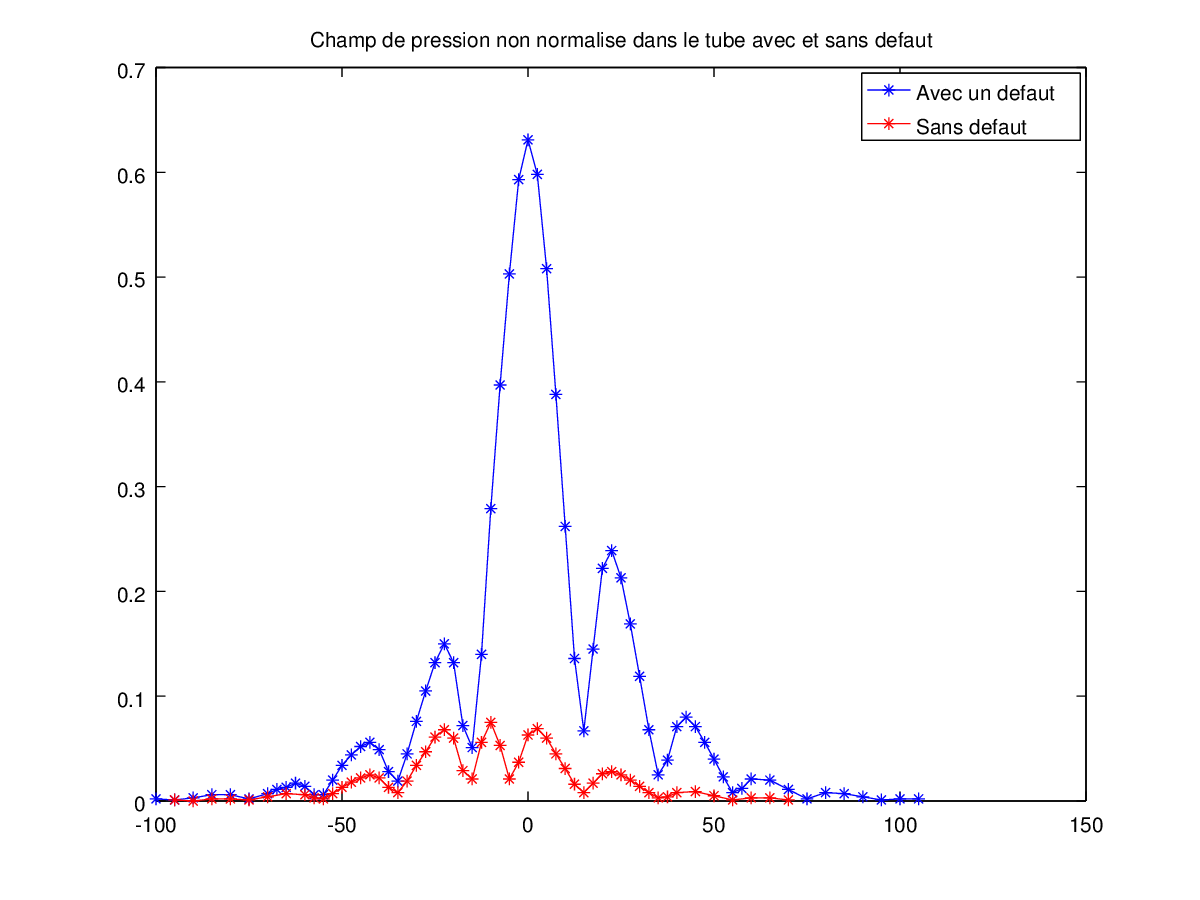
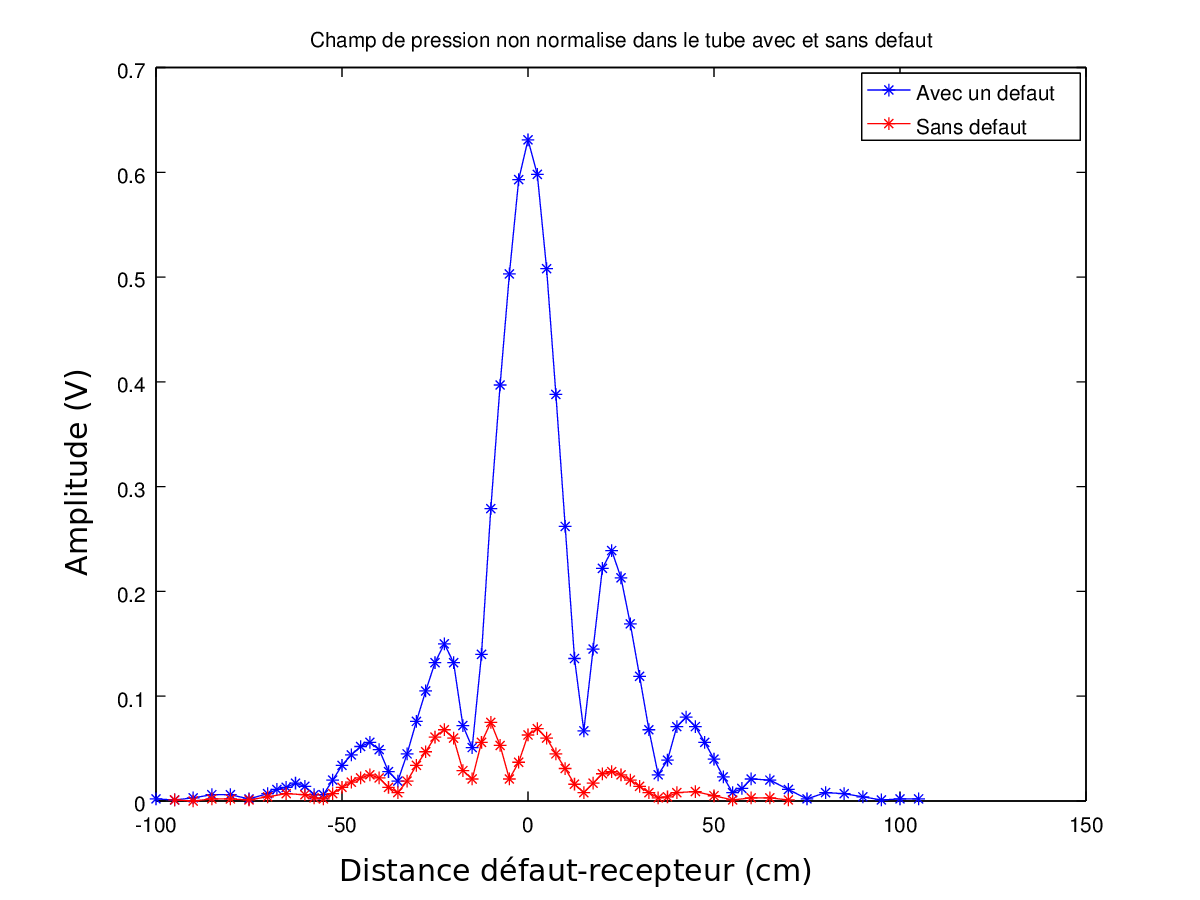
modif biblio + relecture chp3 + images chp 3

Changed region(s): [[0.2775, 0.9333, 0.6783, 0.9956], [0.0308, 0.4667, 0.0925, 0.6222], [0.0617, 0.4044, 0.0925, 0.4356]]

diff --git a/redaction/chapitre3.tex b/redaction/chapitre3.tex
@@ -11,7 +11,7 @@ Le banc de mesure utilisé est constitué d'un tuyau perforé de 60 trous sur le
 
 \begin{figure}[!h]
 	\centering
-	\includegraphics[scale=0.05]{images_chp3/DSCN0123.JPG}
+	\includegraphics[scale=0.03]{images_chp3/DSCN0123.JPG}
 	\caption{Photo du banc de mesure utilisé.\label{photo_manip}}
 \end{figure}
 
@@ -27,25 +27,29 @@ A l'autre extrémité du réseau se trouve une sortie anéchoïque préalablemen
 
 
 \section{Mesure du coefficient de réflexion et de transmission du réseau}
-On s'intéresse tout d'abord à la mesure du coefficient de réflexion et de transmission dans le réseau. Le but est de chercher la fréquence précise à laquelle le mode de défaut a lieu afin de pouvoir par la suite l'observer expérimentalement. Pour cela, on ne prend que 5 résonateurs (avec un défaut sur le troisième) afin que le mode localisé puisse s'étaler sur les bords du réseau et qu'il soit ainsi visible sur les coefficients de réflexion et de transmission. Les résonateurs ont une longueur de cavité de $16~cm$ et le défaut de $7.5~cm$. Les courbes figure ~\ref{ref_trans1} et ~\ref{ref_reflexion1} correspondent aux coefficients de réflexion et de transmission pour cette configuration, en comparaison avec le cas sans défaut.
+On s'intéresse tout d'abord à la mesure du coefficient de réflexion et de transmission dans le réseau. Le but est de chercher la fréquence précise à laquelle le mode de défaut a lieu afin de pouvoir par la suite l'observer expérimentalement. Pour cela, on ne prend que 5 résonateurs (avec un défaut sur le troisième) afin que le mode localisé puisse s'étaler sur les bords du réseau et qu'il soit ainsi visible sur les coefficients de réflexion et de transmission. Les résonateurs ont une longueur de cavité de $16~cm$ et le défaut de $7.5~cm$, et sont espacés de $10~cm$. Les courbes figure ~\ref{ref_trans1} et ~\ref{ref_reflexion1} correspondent aux coefficients de réflexion et de transmission pour cette configuration, en comparaison avec le cas sans défaut.
 
 \begin{figure}[!h]
-\centering
-\includegraphics[scale=0.3]{images_chp3/T_5HR165_nodefect.png}
-\includegraphics[scale=0.3]{images_chp3/T_5HR165_8cm_pos3.png}
-\caption{\label{ref_trans1} Coefficients de transmission du réseau dans un cas sans défaut et avec défaut. Les courbes de simulations et de l’expérience sont superposées.}
+	\centering
+	\subfigure[Sans défaut]{\includegraphics[scale=0.3]{images_chp3/T_5HR165_nodefect.png}}
+	\subfigure[Avec un défaut résonant à 485 Hz]{\includegraphics[scale=0.3]{images_chp3/T_5HR165_8cm_pos3.png}}
+	\caption{\label{ref_trans1} Coefficients de transmission du réseau dans un cas sans défaut et avec défaut. Les courbes de simulations (tiretée) et de l’expérience (continue) sont superposées.}
 \end{figure}
 
 \begin{figure}[!h]
-\centering
-\includegraphics[scale=0.3]{images_chp3/R_5HR165_nodefect.png}
-\includegraphics[scale=0.3]{images_chp3/R_5HR165_8cm_pos3.png}
-\caption{\label{ref_reflexion1} Coefficients de réflexion du réseau dans un cas sans défaut et avec défaut. Les courbes de simulations et de l’expérience sont superposées.}
+	\centering
+	\subfigure[Sans défaut]{\includegraphics[scale=0.3]{images_chp3/R_5HR165_nodefect.png}}
+	\subfigure[Avec un défaut résonant à 485 Hz]{\includegraphics[scale=0.3]{images_chp3/R_5HR165_8cm_pos3.png}}
+\caption{\label{ref_reflexion1} Coefficients de réflexion du réseau dans un cas sans défaut et avec défaut. Les courbes de simulations (tiretée) et de l’expérience (continue) sont superposées.}
 \end{figure}
 
-On constate qu'un pic de transmission est visible autour de 370 Hz, dans la bande interdite, tant théoriquement qu'expérimentalement : le défaut amplifie et permet à l'onde de traverser le réseau pour une fréquence donnée, alors que dans le cas sans défaut, aucune transmission n'est possible. Ce comportement laisse supposer qu'un mode localisé est présent au niveau du défaut : si on augmente le nombre de résonateur, l'atténuation est plus forte et le pic disparaît. Le mode est alors complètement localisé.
+Dans l'ensemble, simulations et mesures sont en accord. Certaines variations sont moins marquées sur les courbes expérimentales en raison des fuites aux jonctions du guide et des résonateurs non prises en comptes dans la simulation.\\
+Aux fréquences pour lesquelles la transmission est théoriquement proche de 1, il y a de fortes variations expérimentalement, dépassant 1. Cet écart entre théorie et expérience s'explique par la contribution des faibles réflexions provenant de la terminaison anéchoïque qui n'est pas parfaite.\\~\\
 
-Ces résultats se retrouvent de la même manière sur la réflexion.
+
+On constate qu'un pic de transmission est visible autour de 370 Hz, dans la bande interdite, tant théoriquement qu'expérimentalement : le défaut amplifie et permet à l'onde de traverser le réseau pour une fréquence donnée, alors que dans le cas sans défaut, aucune transmission n'est possible. Ce comportement laisse supposer qu'un mode localisé est présent au niveau du défaut : si on augmente le nombre de résonateur, l'atténuation est plus forte et le pic disparaît. Le mode est alors complètement localisé. 
+
+Selon la géométrie du réseau, la fréquence du mode de défaut peut apparaître plus clairement sur le coefficient de réflexion. Dans le cas présenté ici, le réseau est suffisamment court pour que l'effet du défaut soit aussi bine visible en transmission qu'en réflexion.
 
 
 
@@ -53,25 +57,42 @@ Ces résultats se retrouvent de la même manière sur la réflexion.
 
 
 
-Une fois la fréquence du mode de défaut relevée sur les coefficients de réflexions et transmissions on augmente le nombre de résonateurs de part et d'autre du défaut afin de créer un mode complètement localisé. Afin de pouvoir quand même exciter le mode localisé, une source est placé dans un des orifices au voisinage du défaut. Un microphone est inséré dans le réseau afin de mesure la pression en n'importe quel point. La pression RMS mesurée dans le tube est représenté figure ~\ref{p_tube} pour une configuration avec et sans défaut.
+Le nombre de résonateurs de part et d'autre du défaut est augmenté de manière à créer un mode complètement localisé. Afin de pouvoir quand même exciter le défaut à la fréquence du mode recherché malgré la longueur du réseau, une source est placée dans un des orifices au voisinage du défaut. Pour des raisons techniques, les résonateurs sont alors espacés de $20~cm$. De plus, pour éviter le bruit en basses fréquences dû à la réponse des transducteurs utilisés, la longueur de cavité des résonateurs est diminuée à $9.5~cm$, permettant ainsi de monter la première bande interdite en fréquence. Enfin, la cavité du défaut est fixée à $8~cm$. Dans ces conditions, les cellules étant plus grande, l'atténuation dans le guide est plus forte et la fréquence du mode de défaut est moins visible sur les coefficients de transmission et de réflexion. Cependant, avec l'aide d'une simulation, il possible de détecter sur la figure~\ref{ref_loc} une modification de la réflexion quand il y a un défaut. Un pic correspondant au mode de défaut apparaît à $370~Hz$.
+
+
+
+ Le signal d'excitation est donc un sinus à $370~Hz$ et un microphone est inséré dans le réseau afin de mesure la pression en n'importe quel point. Le microphone n'est pas intrusif car sa taille (quart de pouce) est petite devant celle de la longueur d'onde. L'amplitude de la pression mesurée dans le tube est représenté figure ~\ref{p_tube} pour une configuration avec et sans défaut. 
+
 
 \begin{figure}[!h]
-\centering
-\includegraphics[scale=0.5]{./images_chp3/non_norm_lin.png}
-\caption{\label{_tube} Pression RMS mesurée dans le réseau afin de mettre en évidence un mode localisé.}
+	\begin{minipage}[l]{0.45 \textwidth}
+		\subfigure[Avec défaut est en 3\textsuperscript{ème} position]{\includegraphics[scale=0.25]{./images_chp3/R_5HR10cm_Lcell20_85mm_pos3.png}}
+		\centering
+		\subfigure[Sans défaut]{\includegraphics[scale=0.25]{./images_chp3/R_5HR10cm_Lcell20_nodefect.png}}
+		\caption{Coefficient de réflexion à l'entrée d'un réseau de 5 cellules.\label{ref_loc}}
+	\end{minipage}
+	\hspace{0.5cm}
+	\begin{minipage}[r]{0.5 \textwidth}
+		\centering
+		\subfigure[]{\includegraphics[scale=0.2]{./images_chp3/non_norm_lin.png}}
+		\caption{Amplitude de la pression dans le guide avec et sans défaut.\label{p_tube}}
+	\end{minipage}
 \end{figure}
 
-On constate que les niveaux de pression mesurés sont près de 10 fois plus élevé dans le cas ou un défaut est présent. De plus, la décroissance à mesure qu'on s'éloigne du défaut est très importante: on est donc bien en présence d'un mode localisé. Il est a noté que dans cette configuration le niveau maximum dans le réseau ne ce situe pas au niveau de la source mais du défaut (ce qui n'est pas le cas quand il n'y a pas de défaut).
+Les niveaux de pression mesurés sont près de 10 fois plus élevés dans le cas où un défaut est présent. De plus, la décroissance à mesure qu'on s'éloigne du défaut est très importante : on est donc bien en présence d'un mode localisé. Il est a noter que dans cette configuration, le niveau maximum dans le réseau ne se situe pas au niveau de la source mais au niveau du défaut (ce qui n'est pas le cas quand il n'y a pas de défaut).
 \bigskip
-Pour des questions matériels il n'a pas été possible de placer la source au même endroit que le défaut dans le réseau, la symétrie du système n'est donc pas conservée. C'est pourquoi les 2 courbes figurent \ref{p_tube} ne sont pas centré sur le même point. La courbe sans défaut est centrée sur la source et la courbe avec défaut est centré sur le défaut. 
+Pour des questions matériels il n'a pas été possible de placer la source au même endroit que le défaut dans le réseau. La symétrie du système n'est donc pas conservée. C'est pourquoi les 2 courbes de la figure \ref{p_tube} ne sont pas centrées sur le même point.
 
 \subsection{Changement de géométrie du défaut}
-Afin de pouvoir étudier la différence de décroissance entre les 2 courbes, on change la géométrie du défaut: celui-ci est maintenant constitué de 2 résonateurs afin de pouvoir placer la source au centre. On à alors des cellule constitués de 2 résonateurs (voir schéma figure \ref{fig_exp}. La source se trouve en $x=0$, les résonateurs ont une longueur de cavité de $16~cm$ et ceux du défaut une longueur de $8~cm$. Ces longueurs sont modifiés par rapport au cas précédent car le mode localisé à lieu a une fréquence différente que dans le cas d'un défaut d'un seul résonateur: le couplage de 2 résonateur abaisse la fréquence du mode localisé (dans les fait 2 modes localisés sont créé, un plus basse fréquence et un plus haute, on choisi celui basse fréquence car il est mieux placé). On prend donc des cavités plus faible pour partir d'une plus haute fréquence.
+Afin de pouvoir étudier la différence de décroissance entre les 2 courbes, on change la géométrie de la cellule singulière : celle-ci est maintenant constituée de 2 résonateurs afin de pouvoir placer la source au centre. Les cellules sont alors constitués de 2 résonateurs (voir schéma figure \ref{fig_exp}). La source se trouve au point $x=0$, les résonateurs ont une longueur de cavité de $16~cm$ et ceux du défaut une longueur de $8~cm$.
+
+
+Le couplage des deux défauts engendre en réalité deux fréquences de résonance. En prenant des longueur de cavité plus grande, l'une d'elle tombe dans une bande interdite, générant ainsi un mode localisé.
 
 \begin{figure}[!h]
 \centering
 \includegraphics[scale=0.3]{./images_chp3/chgmt_defaut.png}
-\caption{\label{fig_exp} Schéma décrivant le changement du défaut afin de rendre l'expérience symétrique.}
+\caption{\label{fig_exp} Schéma décrivant le changement du défaut afin de rendre le réseau symétrique.}
 \end{figure}
 
 
@@ -82,7 +103,7 @@ On obtient les courbes de pression figure \ref{p_tube2}.
 \centering
 \includegraphics[scale=0.3]{./images_chp3/comparaison_decroissance_lin.png}\hfill
 \includegraphics[scale=0.3]{./images_chp3/comparaison_decroissance_log.png}
-\caption{\label{_tube} Pression RMS mesurée dans le réseau avec un défaut à 2 résonateurs. A gauche en abscisse linéaire, a droite en abscisse logarithmique.}
+\caption{\label{_tube} Pression RMS mesurée dans le réseau avec un défaut à 2 résonateurs. A gauche en ordonnées linéaires, a droite en ordonnées logarithmiques.}
 \end{figure}
 
 Les décroissances semblent les mêmes pour les 2 courbes: le défaut à donc juste pour effet d'augmenter le niveau sonore mais n'induit pas une décroissance plus forte.
